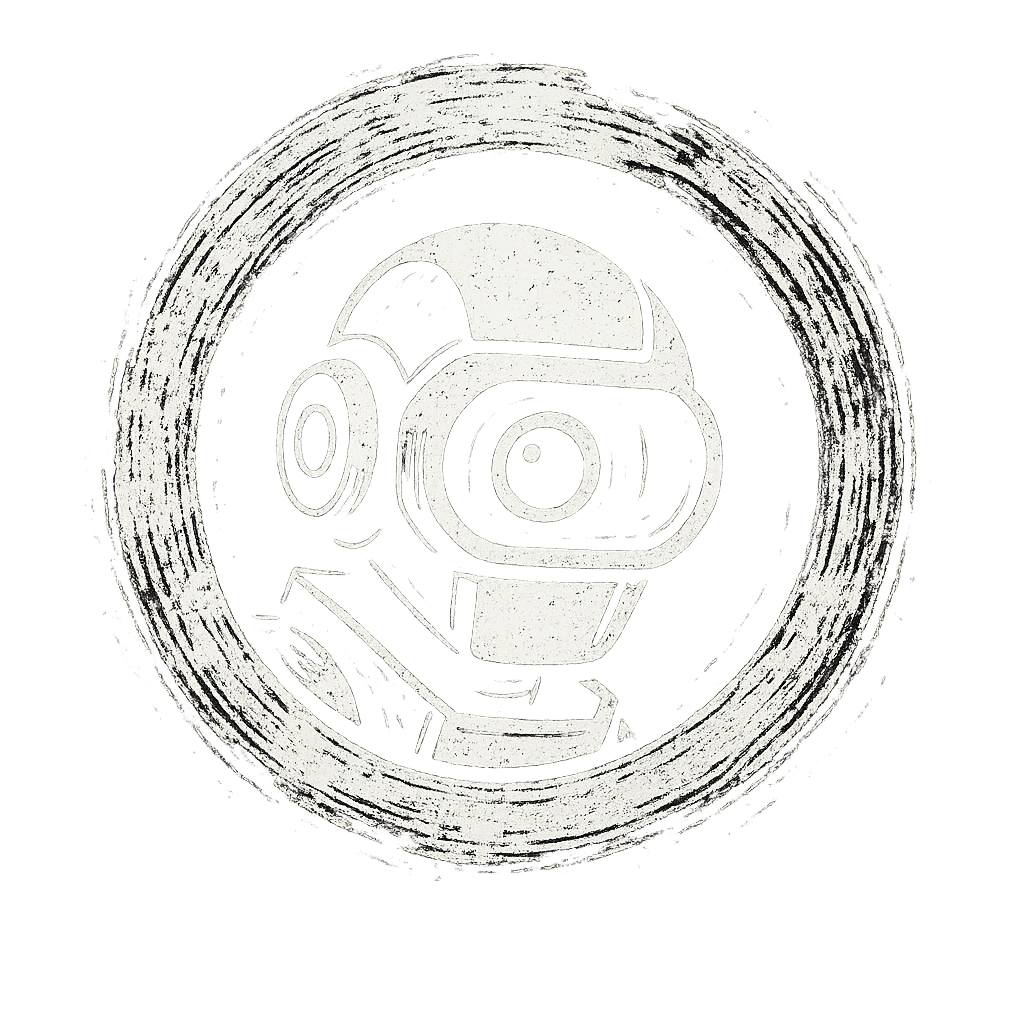
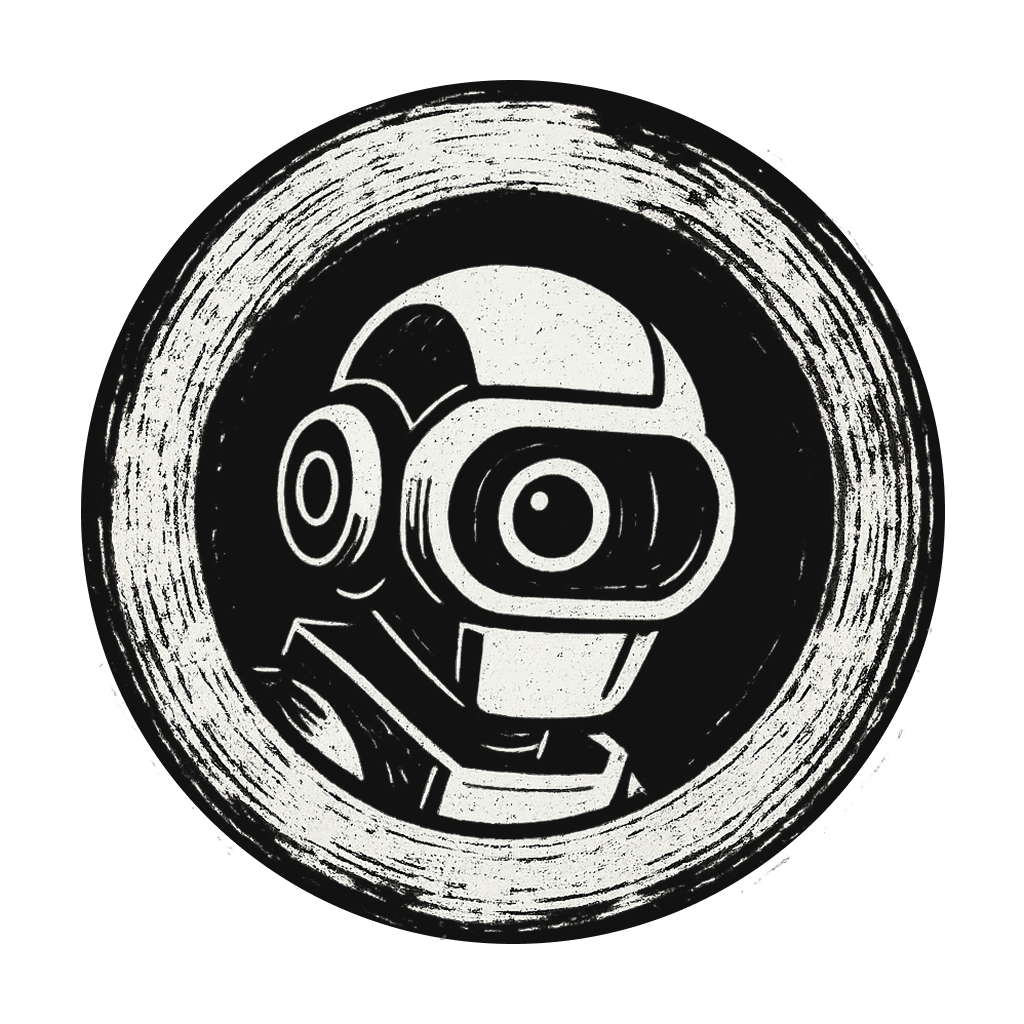
v0.1.2

diff --git a/src/app/layout.config.tsx b/src/app/layout.config.tsx
@@ -11,15 +11,14 @@ export const baseOptions: BaseLayoutProps = {
   nav: {
     title: (
       <>
-        <svg
-          width="24"
-          height="24"
-          xmlns="http://www.w3.org/2000/svg"
-          aria-label="Logo"
-        >
-          <circle cx={12} cy={12} r={12} fill="currentColor" />
-        </svg>
-        My App
+        <img
+          src="/othello.png"
+          alt="Othello Logo"
+          width={48}
+          height={48}
+          style={{ display: 'inline-block', verticalAlign: 'middle', marginRight: 0, marginTop: 16, marginBottom: 16 }}
+        />
+        Othello
       </>
     ),
   },
